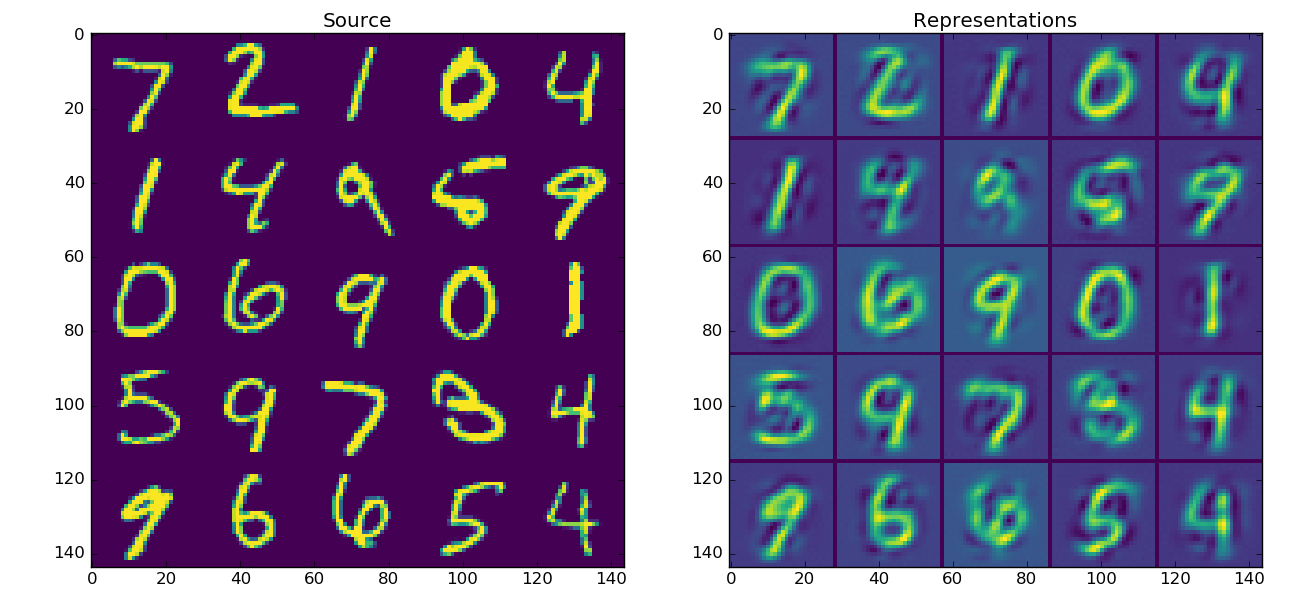
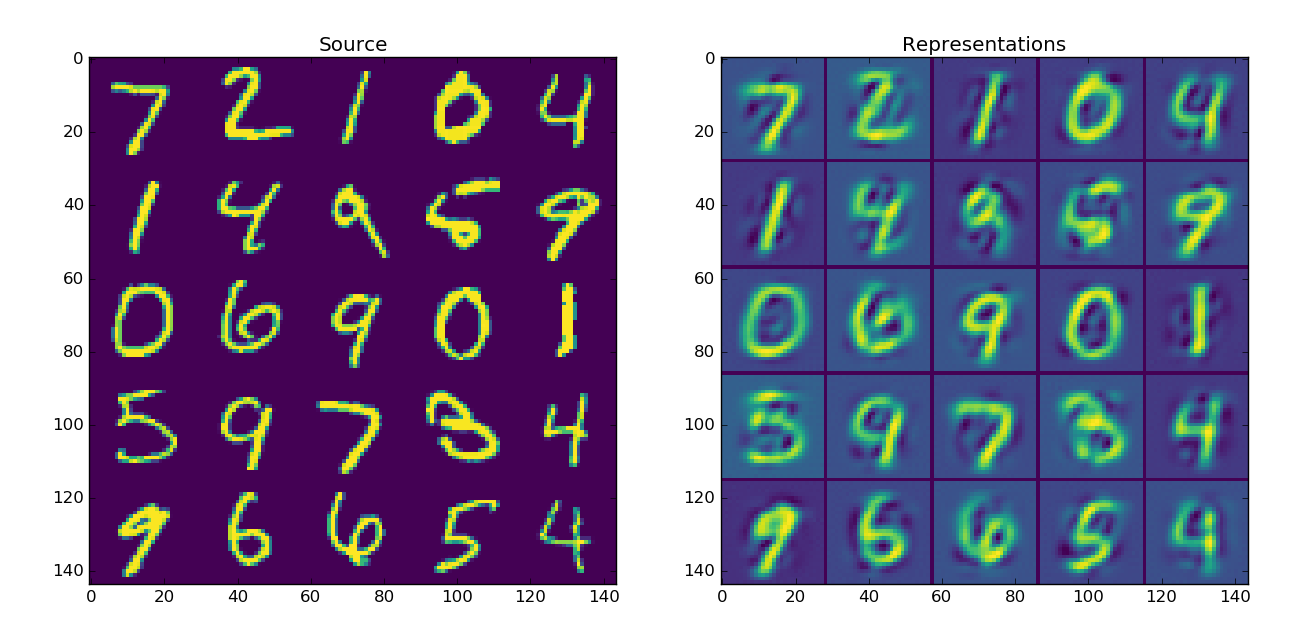
fixed activation layer error + updated image

diff --git a/conv_autoencoder.py b/conv_autoencoder.py
@@ -21,20 +21,26 @@ def load_data():
 
 def build_model(nb_filters=32, nb_pool=2, nb_conv=3):
     model = models.Sequential()
+    d = Dense(30)
     c = Convolution2D(nb_filters, nb_conv, nb_conv, border_mode='same', input_shape=(1, 28, 28))
+    # =========      ENCODER     ========================
     model.add(c)
     model.add(Activation('tanh'))
     model.add(MaxPooling2D(pool_size=(nb_pool, nb_pool)))
     model.add(Dropout(0.25))
+    # =========      BOTTLENECK     ======================
     model.add(Flatten())
-    d =Dense(30)
     model.add(d)
     model.add(Activation('tanh'))
+    # =========      BOTTLENECK^-1   =====================
     model.add(DependentDense(nb_filters * 14 * 14, d))
-    model.add(Reshape((nb_filters, 14, 14)))
-    model.add(UpSampling2D(size=(nb_pool, nb_pool)))
     model.add(Activation('tanh'))
+    model.add(Reshape((nb_filters, 14, 14)))
+    # =========      DECODER     =========================
+    model.add(UpSampling2D(size=(nb_pool, nb_pool)))
     model.add(Deconvolution2D(c, border_mode='same'))
+    model.add(Activation('tanh'))
+
     return model
 
 
@@ -44,7 +50,8 @@ if __name__ == '__main__':
     if not False:
         model.compile(optimizer='rmsprop', loss='mean_squared_error')
         model.summary()
-        model.fit(X_train, X_train, nb_epoch=50, batch_size=512, validation_split=0.2, callbacks=[EarlyStopping(patience=3)])
+        model.fit(X_train, X_train, nb_epoch=50, batch_size=512, validation_split=0.2,
+                  callbacks=[EarlyStopping(patience=3)])
         model.save_weights('./conv.neuro', overwrite=True)
     else:
         model.load_weights('./conv.neuro')

diff --git a/helpers.py b/helpers.py
@@ -170,20 +170,20 @@ def show_image(img, title=None, bw=False, per_row=2):
     plt.show()
 
 
-def show_representations(model, X_test, number=5):
+def show_representations(model, X_test, number=5, dim=28, do_reshape = True):
     representations = model.predict(X_test[:number ** 2, ...])
 
     def flat_to_shaped(x):
-        return x.reshape((x.shape[0], 28, 28))
+        return x.reshape((x.shape[0], dim, dim)) if do_reshape else x
 
     _r = tile_raster_images(
             X=flat_to_shaped(representations),
-            img_shape=(28, 28), tile_shape=(number, number),
+            img_shape=(dim,dim), tile_shape=(number, number),
             tile_spacing=(1, 1))
 
     _o = tile_raster_images(
             X=flat_to_shaped(X_test),
-            img_shape=(28, 28), tile_shape=(number, number),
+            img_shape=(dim,dim), tile_shape=(number, number),
             tile_spacing=(1, 1))
 
     show_image([(_o, 'Source'), (_r, 'Representations')])
